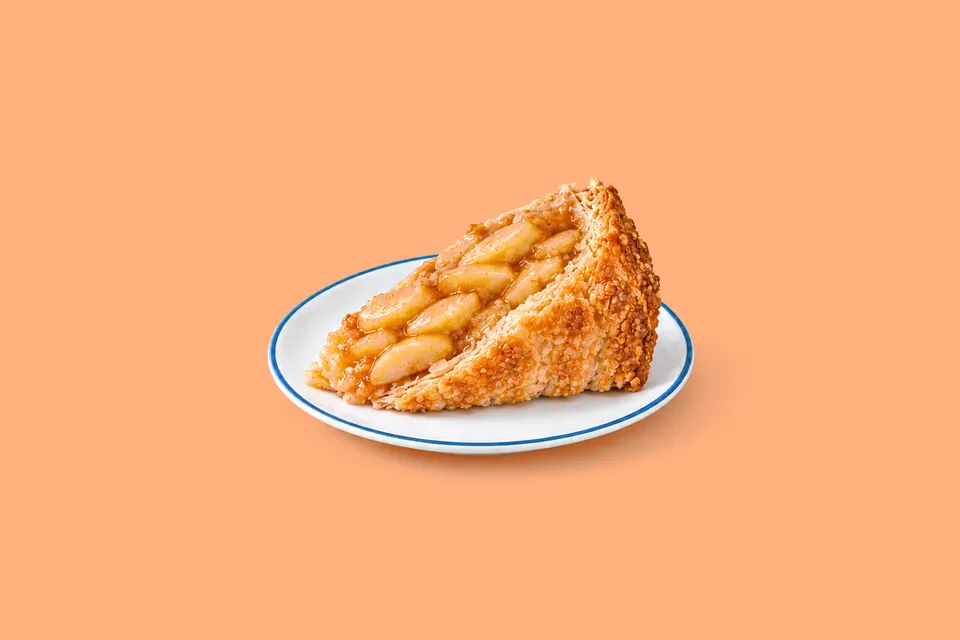
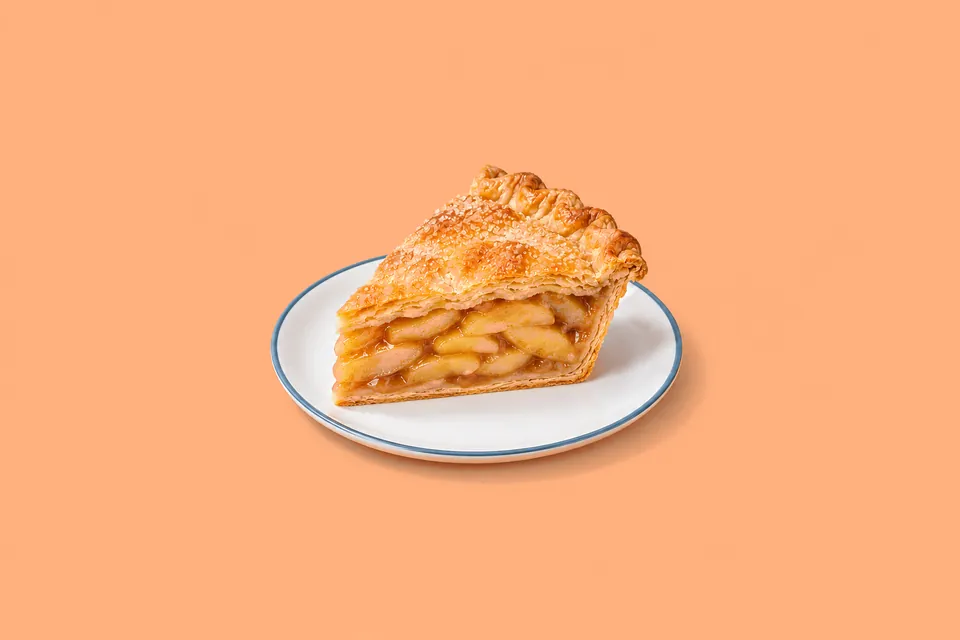
Batch 15 redo photos: apple pie, paella and sushi rice (#20)

Changed region(s): [[0.2812, 0.25, 0.75, 0.75]]

diff --git a/src/data/dish-visuals.ts b/src/data/dish-visuals.ts
@@ -47,7 +47,7 @@ export const dishVisuals: Record<
   'apple-pie': {
     file: 'apple-pie.webp',
     title: 'Apple Pie',
-    alt: 'One generous slice of double-crust apple pie on its side, the flaky golden top crust sparkling with a little sugar, thick layers of tender sliced apples visible in the cut side.',
+    alt: 'A triangular wedge of double-crust apple pie with a flaky, sugared golden top crust and layers of tender sliced apples in the cut side.',
   },
   'arugula-feta-salad': {
     file: 'arugula-feta-salad.webp',
@@ -1807,7 +1807,7 @@ export const dishVisuals: Record<
   'master-sushi-rice': {
     file: 'master-sushi-rice.webp',
     title: 'Sushi Rice (Shari)',
-    alt: 'A neat, gently rounded mound of glossy short-grain sushi rice with distinct, lightly clinging grains.',
+    alt: 'A small white bowl of glossy white short-grain sushi rice in a rounded mound.',
   },
   'mediterranean-chicken-bowls': {
     file: 'mediterranean-chicken-bowls.webp',
@@ -2057,7 +2057,7 @@ export const dishVisuals: Record<
   'paella-valenciana': {
     file: 'paella-valenciana.webp',
     title: 'Paella Valenciana',
-    alt: 'A wide, shallow paella pan filled with a thin, even layer of golden saffron rice, studded with browned bone-in pieces of chicken and rabbit and short lengths of flat green beans, the edges slightly caramelized.',
+    alt: 'A wide steel paella pan of golden saffron rice with browned bone-in chicken and rabbit, flat green beans and large white garrofó beans.',
   },
   'pan-fried-noodles-with-shrimp': {
     file: 'pan-fried-noodles-with-shrimp.webp',
